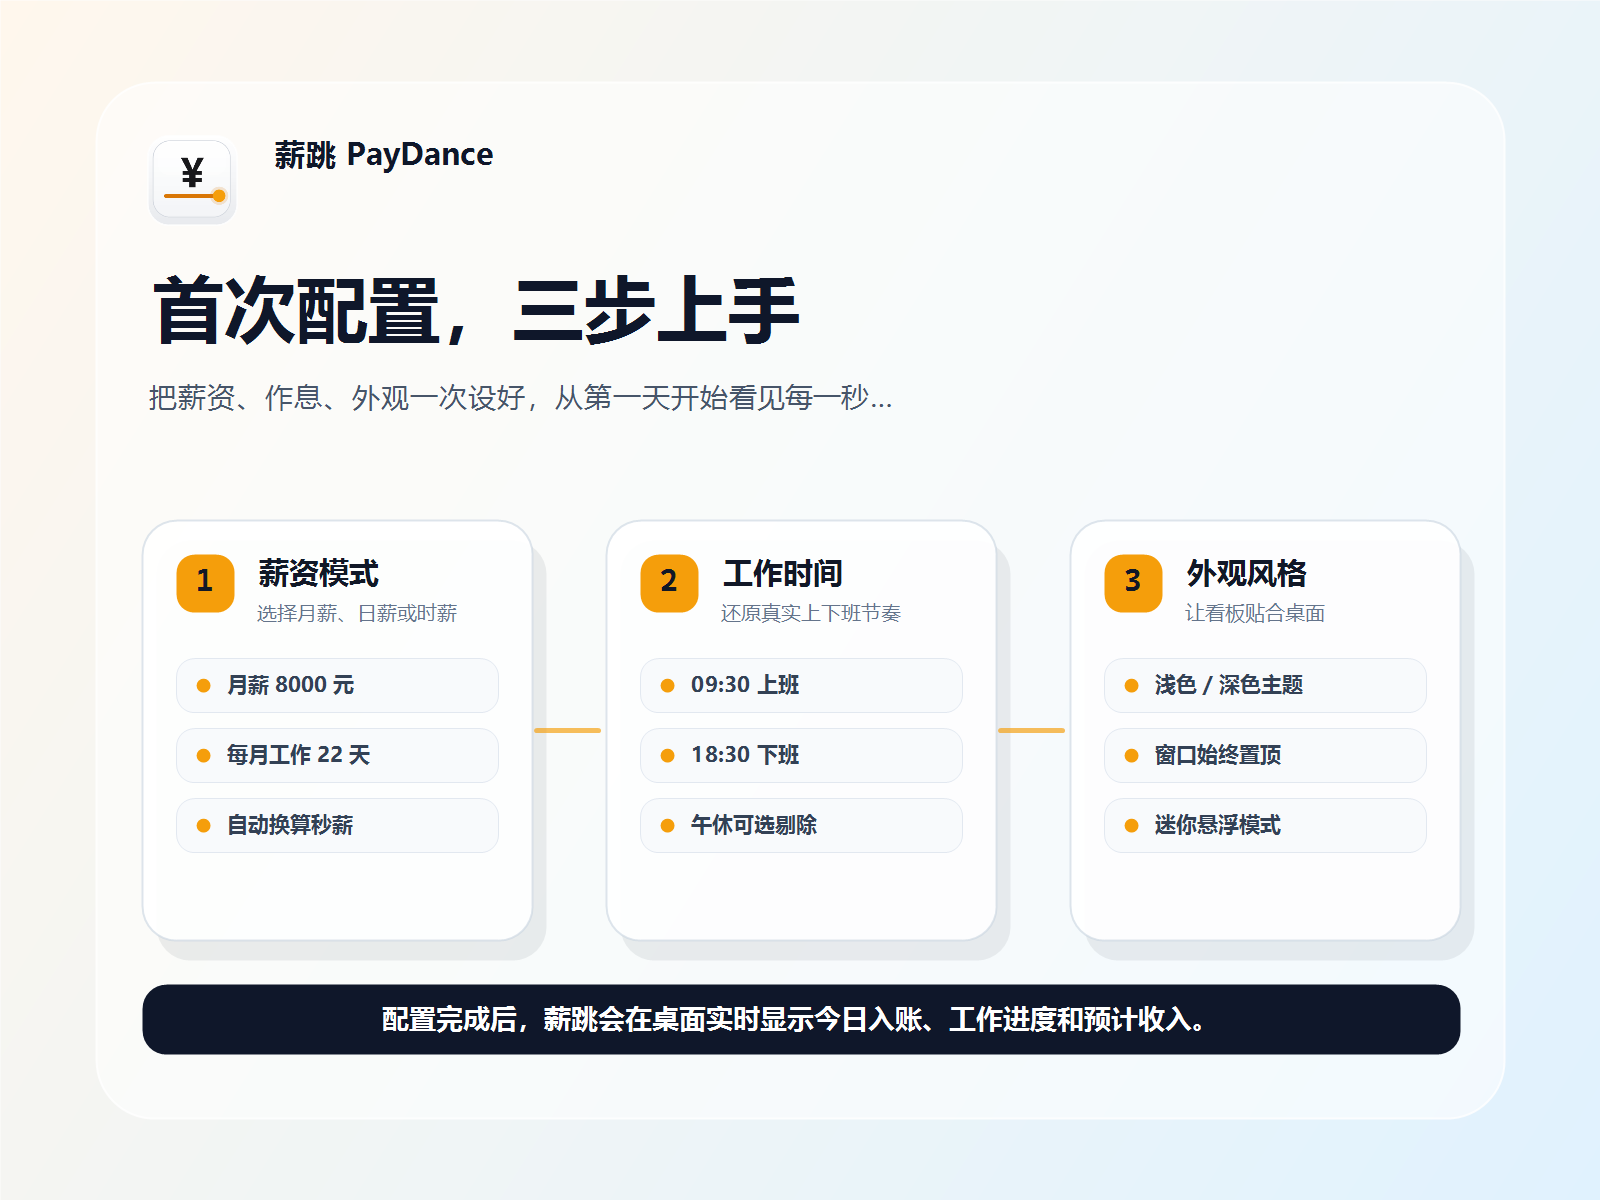
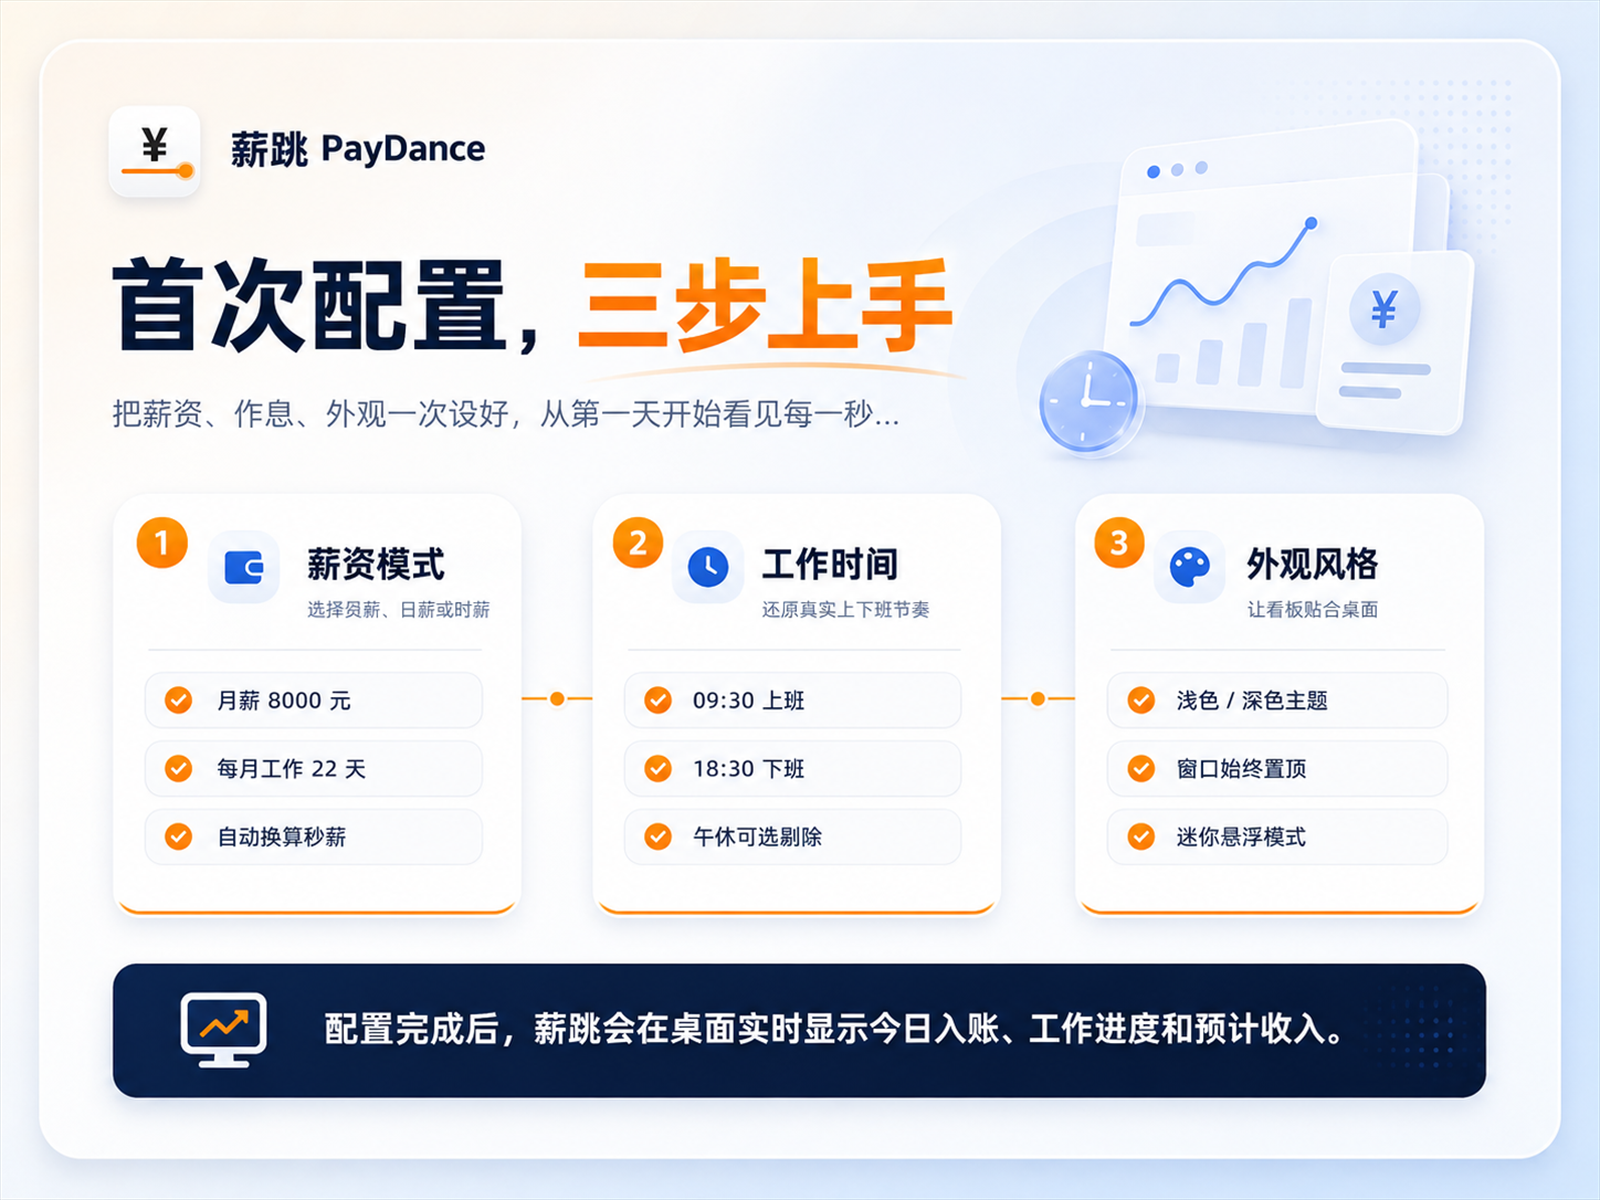
docs: refresh marketing posters

diff --git a/README.md b/README.md
@@ -8,15 +8,25 @@
 
 薪跳 PayDance 是一款桌面实时薪资仪表盘，也是一款属于打工人的桌面实时工资看板。输入薪资、工作日、上下班时间和午休设置后，它会在桌面上实时显示今天已经挣到的钱，让每一秒的收入跳动都看得见。
 
+## 产品预览
+
 <p align="center">
-  <img src="marketing-posters/poster-01-income-ticker.png" alt="薪跳 PayDance 主视觉" width="100%">
+  <img src="marketing-posters/poster-01-income-ticker.png" alt="薪跳 PayDance 实时收入看板" width="100%">
 </p>
 
-## 界面预览
+<p align="center">
+  <strong>实时收入看板</strong><br>
+  把今天已经挣到的钱、工作进度、剩余时间和预计收入放在桌面上实时滚动。
+</p>
 
-| 实时收入看板 | 首次配置 | 一天收入轨迹 |
-| --- | --- | --- |
-| ![薪跳 PayDance 实时收入看板](marketing-posters/poster-01-income-ticker.png) | ![薪跳 PayDance 首次配置](marketing-posters/poster-02-first-run-setup.png) | ![薪跳 PayDance 一天收入轨迹](marketing-posters/poster-03-workday-income-timeline.png) |
+<p align="center">
+  <img src="marketing-posters/poster-02-first-run-setup.png" alt="薪跳 PayDance 首次配置三步上手" width="100%">
+</p>
+
+<p align="center">
+  <strong>首次配置，三步上手</strong><br>
+  依次设置薪资模式、工作时间和外观风格，从第一天开始看见每一秒收入。
+</p>
 
 ## 快速下载
 
@@ -186,20 +196,20 @@ gh release view vX.Y.Z --json tagName,name,isDraft,isPrerelease,url,assets,targe
 
 ## 营销海报
 
-仓库中的海报统一放在 `marketing-posters/`。`poster-01-income-ticker.png` 是人工主视觉，不由脚本覆盖；第二、第三张海报可用脚本重新生成：
+仓库中的营销海报统一放在 `marketing-posters/`，当前只保留两张无版本号定稿素材：
 
-```powershell
-powershell -NoProfile -ExecutionPolicy Bypass -File scripts/generate-promo-posters.ps1
-```
+- `poster-01-income-ticker.png`：实时收入看板主视觉，强调“每一秒都在入账”的核心爽感。
+- `poster-02-first-run-setup.png`：首次配置三步上手，展示薪资模式、工作时间和外观风格三段流程。
+
+两张海报均作为人工定稿素材维护，不再由脚本批量生成或覆盖。后续更换海报时，直接替换同名文件，并同步更新 README 中的预览和说明。
 
 ## 版本记录
 
 ### v0.5.10
 
-- 将第一张营销主视觉替换为新的 PayDance 产品海报。
-- 第二、第三张营销海报重做为“首次配置三步上手”和“一天收入轨迹”两个新主题，并更新 README 预览区。
+- 将营销主视觉替换为新的 PayDance 产品海报。
+- README 产品预览区聚焦“实时收入看板”和“首次配置三步上手”两张无版本号海报。
 - 设置中心底部作者归属区新增当前版本号展示。
-- 营销海报生成脚本改为只生成第二、第三张海报，避免覆盖人工主视觉。
 - Release workflow 支持手动填写标签触发正式发布，并同步 PR 模板、Issue fallback 模板和 Git 文本/二进制属性。
 - 更新低风险开发依赖补丁版本。
 